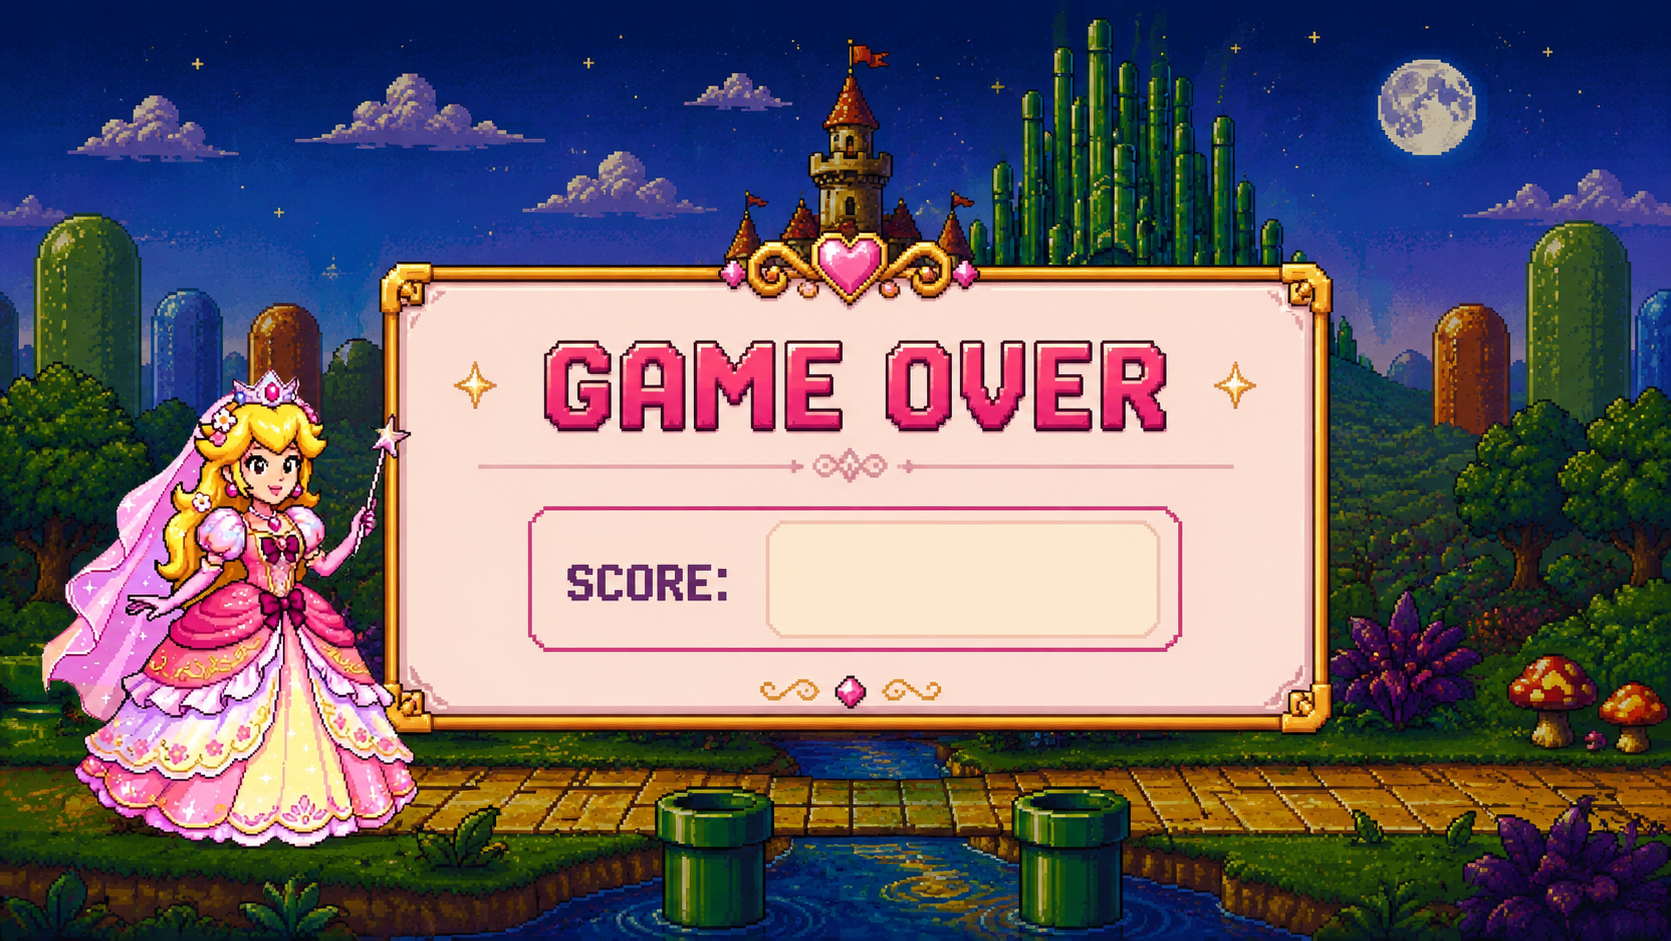
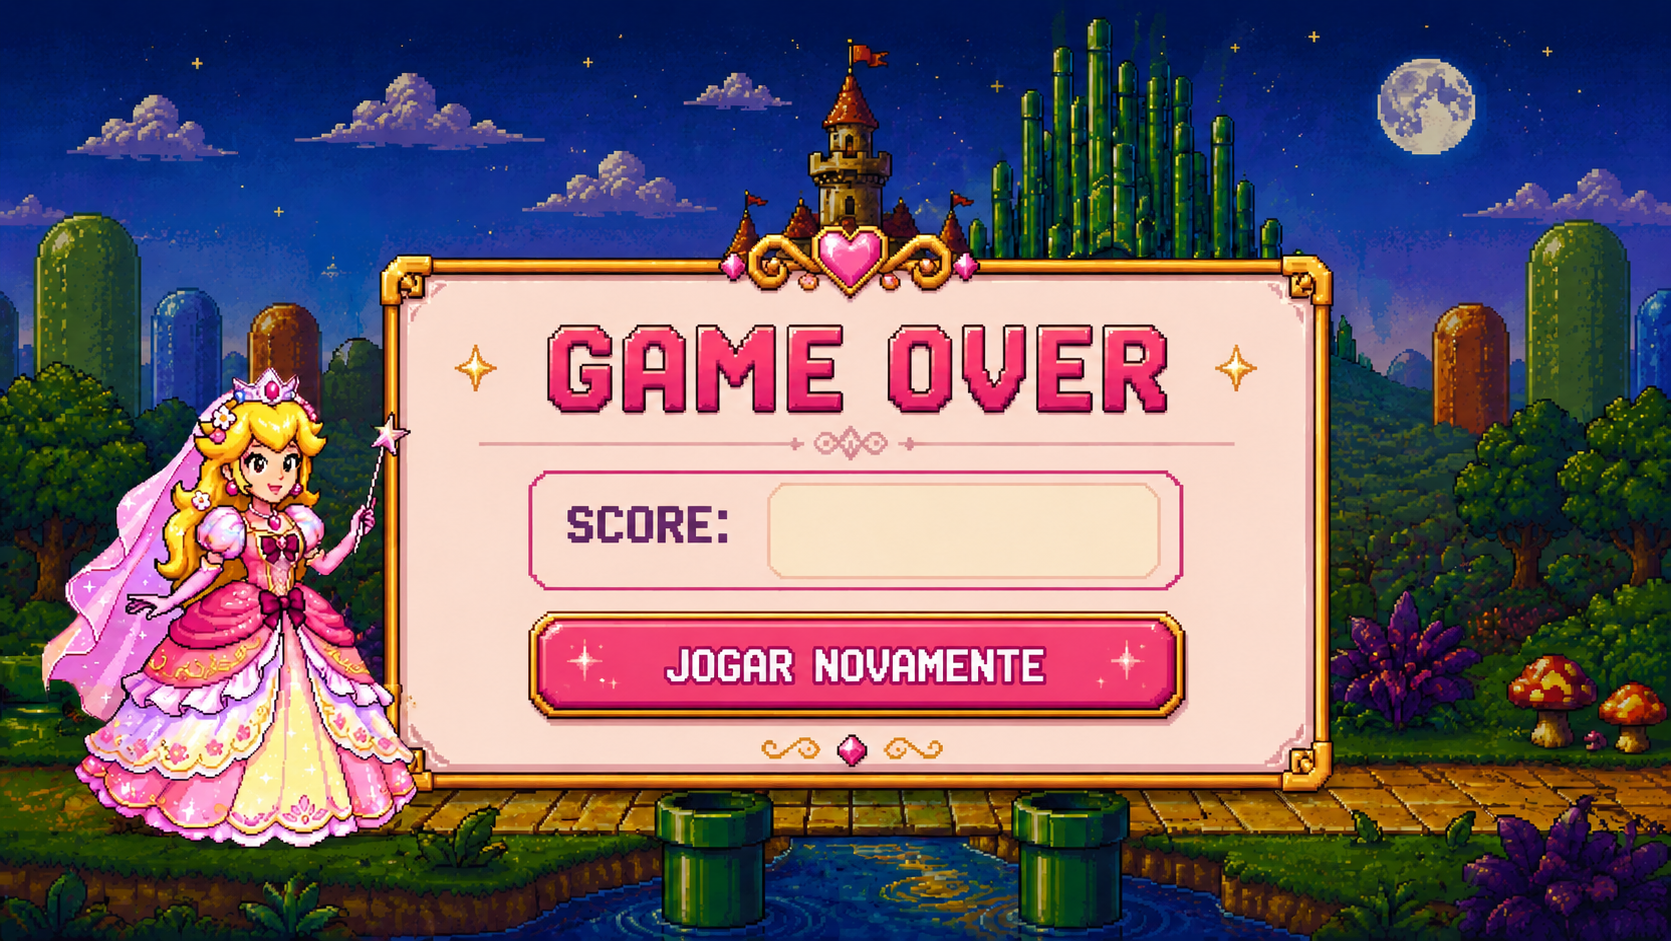
Mudando velocidade, tela de game over e segundos de aparição

diff --git a/src/main.c b/src/main.c
@@ -14,6 +14,7 @@ extern int  GetMaxTiros(void);
 
 typedef enum {
     MENU,
+    OBJETIVO,
     JOGO,
     GAMEOVER
 } EstadoJogo;
@@ -39,6 +40,7 @@ int main(void) {
     Texture2D texFundo    = LoadTexture("imagens/fundo.png");
     Texture2D texEstrela  = LoadTexture("imagens/estrela.png");
     Texture2D texMenu     = LoadTexture("imagens/menu.png");
+    Texture2D texObjetivo = LoadTexture("imagens/objetivo.png");
     Texture2D texGameOver = LoadTexture("imagens/GAMEOVER.png");
 
     Texture2D jump[3];
@@ -114,9 +116,18 @@ int main(void) {
         // MENU
         if (estado == MENU) {
             if (IsKeyPressed(KEY_ENTER) || IsMouseButtonPressed(MOUSE_LEFT_BUTTON)) {
+                estado = OBJETIVO;   // ← era JOGO
+            }
+        } 
+        
+        //OBJETIVO
+        else if (estado == OBJETIVO) {
+            if (IsKeyPressed(KEY_ENTER) || IsMouseButtonPressed(MOUSE_LEFT_BUTTON)) {
                 estado = JOGO;
             }
         }
+        
+        //JOGO
         else if(estado == JOGO){
             
            
@@ -280,6 +291,36 @@ int main(void) {
             // GAME OVER
             if (jogador.vidas <= 0) estado = GAMEOVER;
         }
+        
+        // GAMEOVER - Tentar novamente
+        else if (estado == GAMEOVER) {
+            if (IsMouseButtonPressed(MOUSE_LEFT_BUTTON) || IsKeyPressed(KEY_ENTER)) {
+                // Resetar jogador
+                jogador.posicao      = (Vector2){400, ALTURA_TELA * 0.30f};
+                jogador.vidas        = 3;
+                jogador.velocidadeY  = 0;
+                jogador.podePular    = false;
+
+                // Resetar inimigos
+                InitBruxa(&bruxa);
+                InitCogumelo(&cogumelo, LARGURA_TELA, chaoY);
+
+                // Resetar tiros
+                InitTiros();
+
+                // Resetar contador
+                kills = 0;
+
+                // Resetar plataformas
+                plataformas[1].area.x = (float)LARGURA_TELA + 200;
+                plataformas[2].area.x = (float)LARGURA_TELA + 700;
+                plataformas[3].area.x = (float)LARGURA_TELA + 1200;
+                indiceSequencia = 0;
+
+                // Ir direto para o jogo
+                estado = JOGO;
+            }
+        }
 
         // DESENHO
         BeginDrawing();
@@ -289,6 +330,14 @@ int main(void) {
         if (estado == MENU) {
             DrawTexturePro(texMenu,
                 (Rectangle){0,0,texMenu.width,texMenu.height},
+                (Rectangle){0,0,LARGURA_TELA,ALTURA_TELA},
+                (Vector2){0,0}, 0, WHITE);
+        }
+        
+        // OBJETIVO
+        else if (estado == OBJETIVO) {
+            DrawTexturePro(texObjetivo,
+                (Rectangle){0,0,texObjetivo.width,texObjetivo.height},
                 (Rectangle){0,0,LARGURA_TELA,ALTURA_TELA},
                 (Vector2){0,0}, 0, WHITE);
         }
@@ -355,7 +404,7 @@ int main(void) {
         }
 
         // GAME OVER
-        else {
+        else if (estado == GAMEOVER) {
             DrawTexturePro(texGameOver,
                 (Rectangle){0,0,texGameOver.width,texGameOver.height},
                 (Rectangle){0,0,LARGURA_TELA,ALTURA_TELA},
@@ -372,6 +421,7 @@ int main(void) {
     UnloadTexture(texPrincesa);
     UnloadTexture(texEstrela);
     UnloadTexture(texMenu);
+    UnloadTexture(texObjetivo);
     UnloadTexture(texGameOver);
     for (int i = 0; i < 3; i++) UnloadTexture(jump[i]);
     UnloadMusicStream(musica);

diff --git a/src/bruxa.c b/src/bruxa.c
@@ -1,8 +1,8 @@
 #include "bruxa.h"
 #include <math.h>
 
-#define INTERVALO_APARICAO_BRUXA 4.0f   // segundos entre aparições
-#define INTERVALO_TIRO_BRUXA     1.5f   // segundos entre tiros
+#define INTERVALO_APARICAO_BRUXA 2.7f   // segundos entre aparições
+#define INTERVALO_TIRO_BRUXA     1.8f   // segundos entre tiros
 #define VELOCIDADE_TIRO_BRUXA    280.0f
 #define VELOCIDADE_TIRO_ROTACAO  250.0f // giro visual do projétil
 
@@ -50,7 +50,7 @@ void UpdateBruxa(Bruxa *b, Vector2 posJogador, int largura, int altura) {
             float yAereo = (float)GetRandomValue((int)(altura * 0.15f),
                                                   (int)(altura * 0.45f));
             b->posicao       = (Vector2){(float)largura + 60, yAereo};
-            b->velocidade    = (Vector2){-120, 0};
+            b->velocidade    = (Vector2){-170, 0};
             b->ativa         = true;
             b->atirando      = false;
             b->tirosDados    = 0;

diff --git a/src/cogumelo.c b/src/cogumelo.c
@@ -1,6 +1,6 @@
 #include "cogumelo.h"
 
-#define INTERVALO_APARICAO_COGUMELO 3.0f // segundos entre aparições
+#define INTERVALO_APARICAO_COGUMELO 2.0f // segundos entre aparições
 #define LARGURA_COGUMELO 95
 #define ALTURA_COGUMELO  95
 
